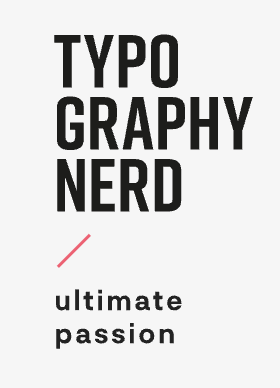
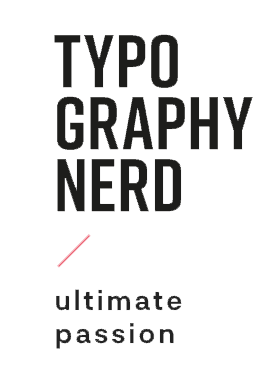
added body border and adjusted margin and padding

diff --git a/index.html b/index.html
@@ -27,7 +27,7 @@
             </div>
         </header>
 
-        <!--Start Side Navigtion-->
+        <!--Start Side Navigation-->
         <div class="side-nav">
             <div class="alt_nav">
                 <div class="alt_nav-item">
@@ -64,7 +64,7 @@
                     <p>TYPOGRAPHY NERD</p>
                 </div>
         </div>
-        <!--End Side Navigtion-->
+        <!--End Side Navigation-->
 
         <!--Start Upper-Right Corner Graphic-->
         <div class="corner-graphic">
@@ -186,82 +186,84 @@
         <!--End Workshop Section-->
 
         <!--Start Menus Section-->
-        <div class="flat-list">
+        <div class="menus-section">
+            <div class="menus__flat-list">
 
-                <article class="menus">
-                        <h3>TYPOGRAPHY</h3>
-                    <ul class="menus-list">
-                        <li><a href="#!">quotation marks</a></li>
-                        <li><a href="#!">Scripture explains</a></li>
-                        <li><a href="#!">Fractions</a></li>
-                        <li><a href="#!">degrees and Celsius</a></li>
-                        <li><a href="#!">Superscript and subscript digits</a></li>
-                        <li><a href="#!">Horizontal strokes</a></li>
-                        <li><a href="#!">Ligatures</a></li>
-                        <li><a href="#!">Painting sign</a></li>
-                        <li><a href="#!">Shoemaker's boy and whore's child</a></li>
-                        <li><a href="#!">Underline more beautifully</a></li>
-                        <li><a href="#!">Price typography</a></li>
-                        <li><a href="#!">Business card typography</a></li>
-                    </ul>
-                </article>
+                    <article class="menus">
+                            <h3>TYPOGRAPHY</h3>
+                        <ul class="menus-list">
+                            <li><a href="#!">quotation marks</a></li>
+                            <li><a href="#!">Scripture explains</a></li>
+                            <li><a href="#!">Fractions</a></li>
+                            <li><a href="#!">degrees and Celsius</a></li>
+                            <li><a href="#!">Superscript and subscript digits</a></li>
+                            <li><a href="#!">Horizontal strokes</a></li>
+                            <li><a href="#!">Ligatures</a></li>
+                            <li><a href="#!">Painting sign</a></li>
+                            <li><a href="#!">Shoemaker's boy and whore's child</a></li>
+                            <li><a href="#!">Underline more beautifully</a></li>
+                            <li><a href="#!">Price typography</a></li>
+                            <li><a href="#!">Business card typography</a></li>
+                        </ul>
+                    </article>
 
-                <article class="menus">
-                        <h3>FONTS</h3>
-                    <ul class="menus-list">
-                        <li><a href="#!">The best free fonts</a></li>
-                        <li><a href="#!">Fonts in focus</a></li>
-                        <li><a href="#!">Foundry directory</a></li>
-                    </ul>
-                </article>
+                    <article class="menus">
+                            <h3>FONTS</h3>
+                        <ul class="menus-list">
+                            <li><a href="#!">The best free fonts</a></li>
+                            <li><a href="#!">Fonts in focus</a></li>
+                            <li><a href="#!">Foundry directory</a></li>
+                        </ul>
+                    </article>
 
-                <article class="menus">
-                        <h3>PRACTICE</h3>
-                    <ul class="menus-list">
-                        <li><a href="#!">Spacing within the paragraph</a></li>
-                        <li><a href="#!">Arrangement in the text frame</a></li>
-                        <li><a href="#!">Enumeration and numbering</a></li>
-                        <li><a href="#!">Automatic resizing of text frames</a></li>
-                        <li><a href="#!">Harmonious justification</a></li>
-                        <li><a href="#!">Create fractions correctly</a></li>
-                        <li><a href="#!">Insert initials perfectly</a></li>
-                        <li><a href="#!">Empty spaces for every purpose</a></li>
-                        <li><a href="#!">Possibiities with OpenType</a></li>
-                        <li><a href="#!">Change placeholder text</a></li>
-                        <li><a href="#!">Quick help: spelling</a></li>
-                        <li><a href="#!">Font effects</a></li>
-                        <li><a href="#!">Adjust hyphenation</a></li>
-                        <li><a href="#!">Typographic presets</a></li>
-                        <li><a href="#!">Wrapping options</a></li>
-                    </ul>
-                </article>
+                    <article class="menus">
+                            <h3>PRACTICE</h3>
+                        <ul class="menus-list">
+                            <li><a href="#!">Spacing within the paragraph</a></li>
+                            <li><a href="#!">Arrangement in the text frame</a></li>
+                            <li><a href="#!">Enumeration and numbering</a></li>
+                            <li><a href="#!">Automatic resizing of text frames</a></li>
+                            <li><a href="#!">Harmonious justification</a></li>
+                            <li><a href="#!">Create fractions correctly</a></li>
+                            <li><a href="#!">Insert initials perfectly</a></li>
+                            <li><a href="#!">Empty spaces for every purpose</a></li>
+                            <li><a href="#!">Possibiities with OpenType</a></li>
+                            <li><a href="#!">Change placeholder text</a></li>
+                            <li><a href="#!">Quick help: spelling</a></li>
+                            <li><a href="#!">Font effects</a></li>
+                            <li><a href="#!">Adjust hyphenation</a></li>
+                            <li><a href="#!">Typographic presets</a></li>
+                            <li><a href="#!">Wrapping options</a></li>
+                        </ul>
+                    </article>
 
-                <article class="menus">
-                        <h3>MAGAZINE</h3>
-                    <ul class="menus-list">
-                        <li><a href="#!">Brand names and their meaning</a></li>
-                        <li><a href="#!">Fonts on TV</a></li>
-                        <li><a href="#!">Must-haves for nerds</a></li>
-                        <li><a href="#!">Organize and manage fonts</a></li>
-                        <li><a href="#!">Track down and discover fonts</a></li>
-                        <li><a href="#!">Design fonts</a></li>
-                        <li><a href="#!">Rent fonts</a></li>
-                    </ul>
-                </article>
+                    <article class="menus">
+                            <h3>MAGAZINE</h3>
+                        <ul class="menus-list">
+                            <li><a href="#!">Brand names and their meaning</a></li>
+                            <li><a href="#!">Fonts on TV</a></li>
+                            <li><a href="#!">Must-haves for nerds</a></li>
+                            <li><a href="#!">Organize and manage fonts</a></li>
+                            <li><a href="#!">Track down and discover fonts</a></li>
+                            <li><a href="#!">Design fonts</a></li>
+                            <li><a href="#!">Rent fonts</a></li>
+                        </ul>
+                    </article>
 
-                <article class="menus">
-                        <h3>INTERNAL</h3>
-                    <ul class="menus-list">
-                        <li><a href="#!">Search</a></li>
-                        <li><a href="#!">Contact</a></li>
-                        <li><a href="#!">philosophy</a></li>
-                        <li><a href="#!">Facebook</a></li>
-                        <li><a href="#!">Instagram</a></li>
-                        <li><a href="#!">Twitter</a></li>
-                        <li><a href="#!">Data protection</a></li>
-                        <li><a href="#!">imprint</a></li>
-                    </ul>
-                </article>
+                    <article class="menus">
+                            <h3>INTERNAL</h3>
+                        <ul class="menus-list">
+                            <li><a href="#!">Search</a></li>
+                            <li><a href="#!">Contact</a></li>
+                            <li><a href="#!">philosophy</a></li>
+                            <li><a href="#!">Facebook</a></li>
+                            <li><a href="#!">Instagram</a></li>
+                            <li><a href="#!">Twitter</a></li>
+                            <li><a href="#!">Data protection</a></li>
+                            <li><a href="#!">imprint</a></li>
+                        </ul>
+                    </article>
+            </div>
         </div>
         <!--End Menus Section-->
 

diff --git a/css/main.css b/css/main.css
@@ -29,8 +29,11 @@ html {
 body {
   font-family: var(--font-sans-serif);
   line-height: 1.4;
-  margin-left: 150px;
   background-color: var(--gray-light);
+  border-top: 20px solid white;
+  border-right: 20px solid white;
+  border-bottom: 20px solid white;
+  border-left: 60px solid white;
 }
 
 h1 {
@@ -67,7 +70,8 @@ h5 {
 
 .navbar {
   background: var(--gray-light);
-  margin-top: 140px;
+  margin-top: 120px;
+  margin-left: 1.7em;
 }
 
 .nav-list {
@@ -94,6 +98,10 @@ h5 {
 
 /* Side Navigation Flyout */
 
+.side-nav {
+  background-color: white;
+}
+
 .hamburger {
   width: 1em;
   margin-top: 130px;
@@ -103,7 +111,7 @@ h5 {
   position: fixed;
   top: 0px;
   left: 0px;
-  width: 100px;
+  width: 60px;
   height: 100%;
   z-index: 2;
 }
@@ -208,10 +216,10 @@ h5 {
   align-items: center;
   transform: rotate(-90deg);
   position: fixed;
-  top: 0px;
+  top: 350px;
   left: 0px;
-  width: 100px;
-  height: 100%;
+  width: 60px;
+  height: 220px;
 }
 
 .flat-list__side-nav p {
@@ -228,6 +236,10 @@ h5 {
 
 
 /* Hero Section */
+
+.hero {
+  margin-left: 2.7em;
+}
 
 .hero h3 {
   font-family: var(--font-sans-serif);
@@ -276,7 +288,7 @@ h5 {
 .preview {
     width: auto;
     height: auto;
-    margin: 50px 10px;
+    margin: 50px 10px 50px 2.7em;
 }
 
 .red_box {
@@ -376,6 +388,13 @@ h5 {
 
 /* Menus Section */
 
+.menus__flat-list {
+  display: flex;
+  margin-right: 50px;
+  background-color: white;
+  width: 100%;
+ }
+
 .menus {
   height: auto;
   margin-left: 50px;
@@ -432,9 +451,10 @@ h5 {
 
 /* Footer Section */
 
-footer {
+.footer {
   display: flex;
   padding: 0;
+  background-color: white;
  }
 
 .copyright {
@@ -466,13 +486,13 @@ footer {
 /* Upper-right Corner Graphic */
 
 .corner-graphic {
-  display: flex;
   list-style: none;
-  position: fixed;
+  position: absolute;
   top: 50px;
   right: 0px;
   width: 200px;
   height: 100%;
+  z-index: 1;
 }
 
 .corner-graphic img {
